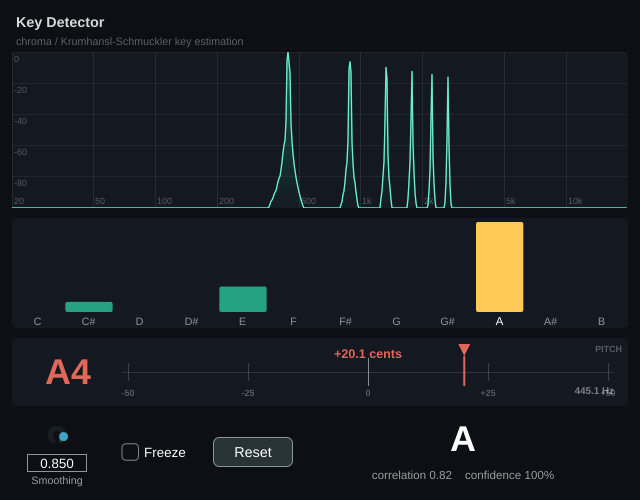
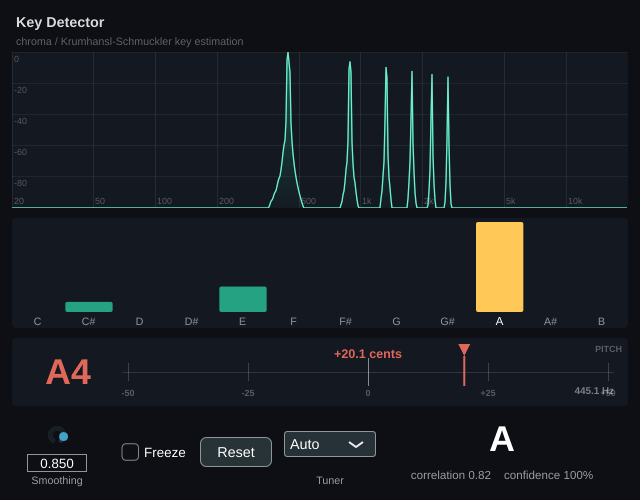
tuner: add Auto/Pitch/Peak mode selector
- New APVTS choice parameter 'tunerMode' (Auto/Pitch/Peak), saved with state.
- Processor selects the raw tuner reading per mode: Auto = YIN pitch when clear
  else loudest peak; Pitch = always YIN fundamental; Peak = always loudest peak.
- Editor: ComboBox with attachment in the control strip.
- README updated.

diff --git a/Source/PluginProcessor.cpp b/Source/PluginProcessor.cpp
@@ -12,6 +12,7 @@ KeyDetectorAudioProcessor::KeyDetectorAudioProcessor()
 {
     smoothingParam = apvts.getRawParameterValue ("smoothing");
     freezeParam    = apvts.getRawParameterValue ("freeze");
+    tunerModeParam = apvts.getRawParameterValue ("tunerMode");
 
     publishedSpectrum.assign ((size_t) numBins, 0.0f);
 }
@@ -34,6 +35,12 @@ KeyDetectorAudioProcessor::createParameterLayout()
     // Freeze = hold the current chroma / key (stop accumulating).
     layout.add (std::make_unique<AudioParameterBool> (
         ParameterID { "freeze", 1 }, "Freeze", false));
+
+    // Tuner mode: Auto = pitch when a clear note is present else loudest peak;
+    // Pitch = always the YIN fundamental; Peak = always the loudest spectral peak.
+    layout.add (std::make_unique<AudioParameterChoice> (
+        ParameterID { "tunerMode", 1 }, "Tuner Mode",
+        juce::StringArray { "Auto", "Pitch", "Peak" }, 0));
 
     return layout;
 }
@@ -139,11 +146,12 @@ void KeyDetectorAudioProcessor::analyseFrame()
     window.multiplyWithWindowingTable (fftData.data(), (size_t) fftSize);
     forwardFFT.performFrequencyOnlyForwardTransform (fftData.data());
 
-    // --- Tuner step 2: choose the raw reading, then stabilise it ------------------
-    // A clear harmonic note -> accurate YIN pitch.  Otherwise (drums / percussion /
-    // inharmonic) -> the loudest spectral peak.  updateTuner() then holds the note
-    // and smooths the needle so the display is readable rather than flickering.
+    // --- Tuner step 2: choose the raw reading (per Tuner Mode), then stabilise ----
+    //   Auto  = YIN pitch when a clear note is present, else the loudest peak.
+    //   Pitch = always the YIN fundamental (the played note, cents-accurate).
+    //   Peak  = always the loudest spectral peak (good for percussion / SFX).
     const bool silent = rms < 1.0e-3;
+    const int  tunerMode = tunerModeParam != nullptr ? (int) (tunerModeParam->load() + 0.5f) : 0;
 
     float rawFreq = 0.0f;
     bool  rawIsPitch = true;
@@ -151,13 +159,18 @@ void KeyDetectorAudioProcessor::analyseFrame()
 
     if (! silent)
     {
-        if (pitchResult.frequency > 0.0f && pitchResult.clarity >= 0.6f)
+        bool usePitch;
+        if      (tunerMode == 1) usePitch = true;   // Pitch
+        else if (tunerMode == 2) usePitch = false;  // Peak
+        else                     usePitch = (pitchResult.frequency > 0.0f && pitchResult.clarity >= 0.6f);
+
+        if (usePitch && pitchResult.frequency > 0.0f)
         {
             rawFreq = pitchResult.frequency;
             rawIsPitch = true;
             valid = true;
         }
-        else
+        else if (! usePitch || tunerMode == 0) // Peak, or Auto falling back to peak
         {
             const float peakHz = dominantPeakHz (fftData.data(), numBins);
             if (peakHz > 0.0f) { rawFreq = peakHz; rawIsPitch = false; valid = true; }

diff --git a/Source/PluginEditor.cpp b/Source/PluginEditor.cpp
@@ -40,6 +40,17 @@ KeyDetectorAudioProcessorEditor::KeyDetectorAudioProcessorEditor (KeyDetectorAud
     resetButton.onClick = [this] { processorRef.requestReset(); };
     addAndMakeVisible (resetButton);
 
+    // Tuner mode selector (Auto / Pitch / Peak).
+    tunerModeBox.addItemList ({ "Auto", "Pitch", "Peak" }, 1);
+    addAndMakeVisible (tunerModeBox);
+    tunerModeAttachment = std::make_unique<ComboBoxAttachment> (
+        processorRef.apvts, "tunerMode", tunerModeBox);
+
+    tunerModeLabel.setJustificationType (juce::Justification::centred);
+    tunerModeLabel.setFont (juce::Font (juce::FontOptions (12.0f)));
+    tunerModeLabel.setColour (juce::Label::textColourId, juce::Colours::white.withAlpha (0.6f));
+    addAndMakeVisible (tunerModeLabel);
+
     spectrumScratch.reserve ((size_t) KeyDetectorAudioProcessor::numBins);
 
     setSize (640, 500);
@@ -80,8 +91,14 @@ void KeyDetectorAudioProcessorEditor::resized()
         smoothingSlider.setBounds (knob);
 
         c.removeFromLeft (16);
-        freezeButton.setBounds (c.removeFromLeft (90).withSizeKeepingCentre (90, 30));
-        resetButton .setBounds (c.removeFromLeft (90).withSizeKeepingCentre (80, 30));
+        freezeButton.setBounds (c.removeFromLeft (80).withSizeKeepingCentre (80, 30));
+        resetButton .setBounds (c.removeFromLeft (76).withSizeKeepingCentre (72, 30));
+
+        // Tuner mode selector.
+        c.removeFromLeft (10);
+        auto tm = c.removeFromLeft (92);
+        tunerModeLabel.setBounds (tm.removeFromBottom (16));
+        tunerModeBox.setBounds (tm.withSizeKeepingCentre (92, 26));
 
         // Key readout occupies the rest of the strip.
         keyLabel.setBounds (c.removeFromTop (46));

diff --git a/Source/PluginEditor.h b/Source/PluginEditor.h
@@ -36,10 +36,15 @@ private:
     juce::TextButton   resetButton  { "Reset" };
     juce::Label        smoothingLabel { {}, "Smoothing" };
 
+    juce::ComboBox     tunerModeBox;
+    juce::Label        tunerModeLabel { {}, "Tuner" };
+
     using SliderAttachment = juce::AudioProcessorValueTreeState::SliderAttachment;
     using ButtonAttachment = juce::AudioProcessorValueTreeState::ButtonAttachment;
+    using ComboBoxAttachment = juce::AudioProcessorValueTreeState::ComboBoxAttachment;
     std::unique_ptr<SliderAttachment> smoothingAttachment;
     std::unique_ptr<ButtonAttachment> freezeAttachment;
+    std::unique_ptr<ComboBoxAttachment> tunerModeAttachment;
 
     std::vector<float> spectrumScratch; // reused each timer tick
 

diff --git a/Source/PluginProcessor.h b/Source/PluginProcessor.h
@@ -153,6 +153,7 @@ private:
     // Cached parameter handles.
     std::atomic<float>* smoothingParam = nullptr;
     std::atomic<float>* freezeParam    = nullptr;
+    std::atomic<float>* tunerModeParam = nullptr; // 0=Auto, 1=Pitch, 2=Peak
 
     // ---- Published analysis state (audio thread -> GUI thread) ------------------
     std::array<std::atomic<float>, 12> publishedChroma {};

diff --git a/README.md b/README.md
@@ -105,6 +105,9 @@ KeyDetector/
 - **Smoothing** – EMA coefficient (0 = instant, ~0.85 = steady). Saved with state.
 - **Freeze** – hold the current chroma/key (stop accumulating).
 - **Reset** – clear the accumulated chroma and start estimating from scratch.
+- **Tuner** – selects the tuner source: **Auto** (YIN pitch when a clear note is
+  present, else the loudest peak), **Pitch** (always the YIN fundamental), or
+  **Peak** (always the loudest spectral peak — best for percussion / SFX).
 
 ## Building
 
